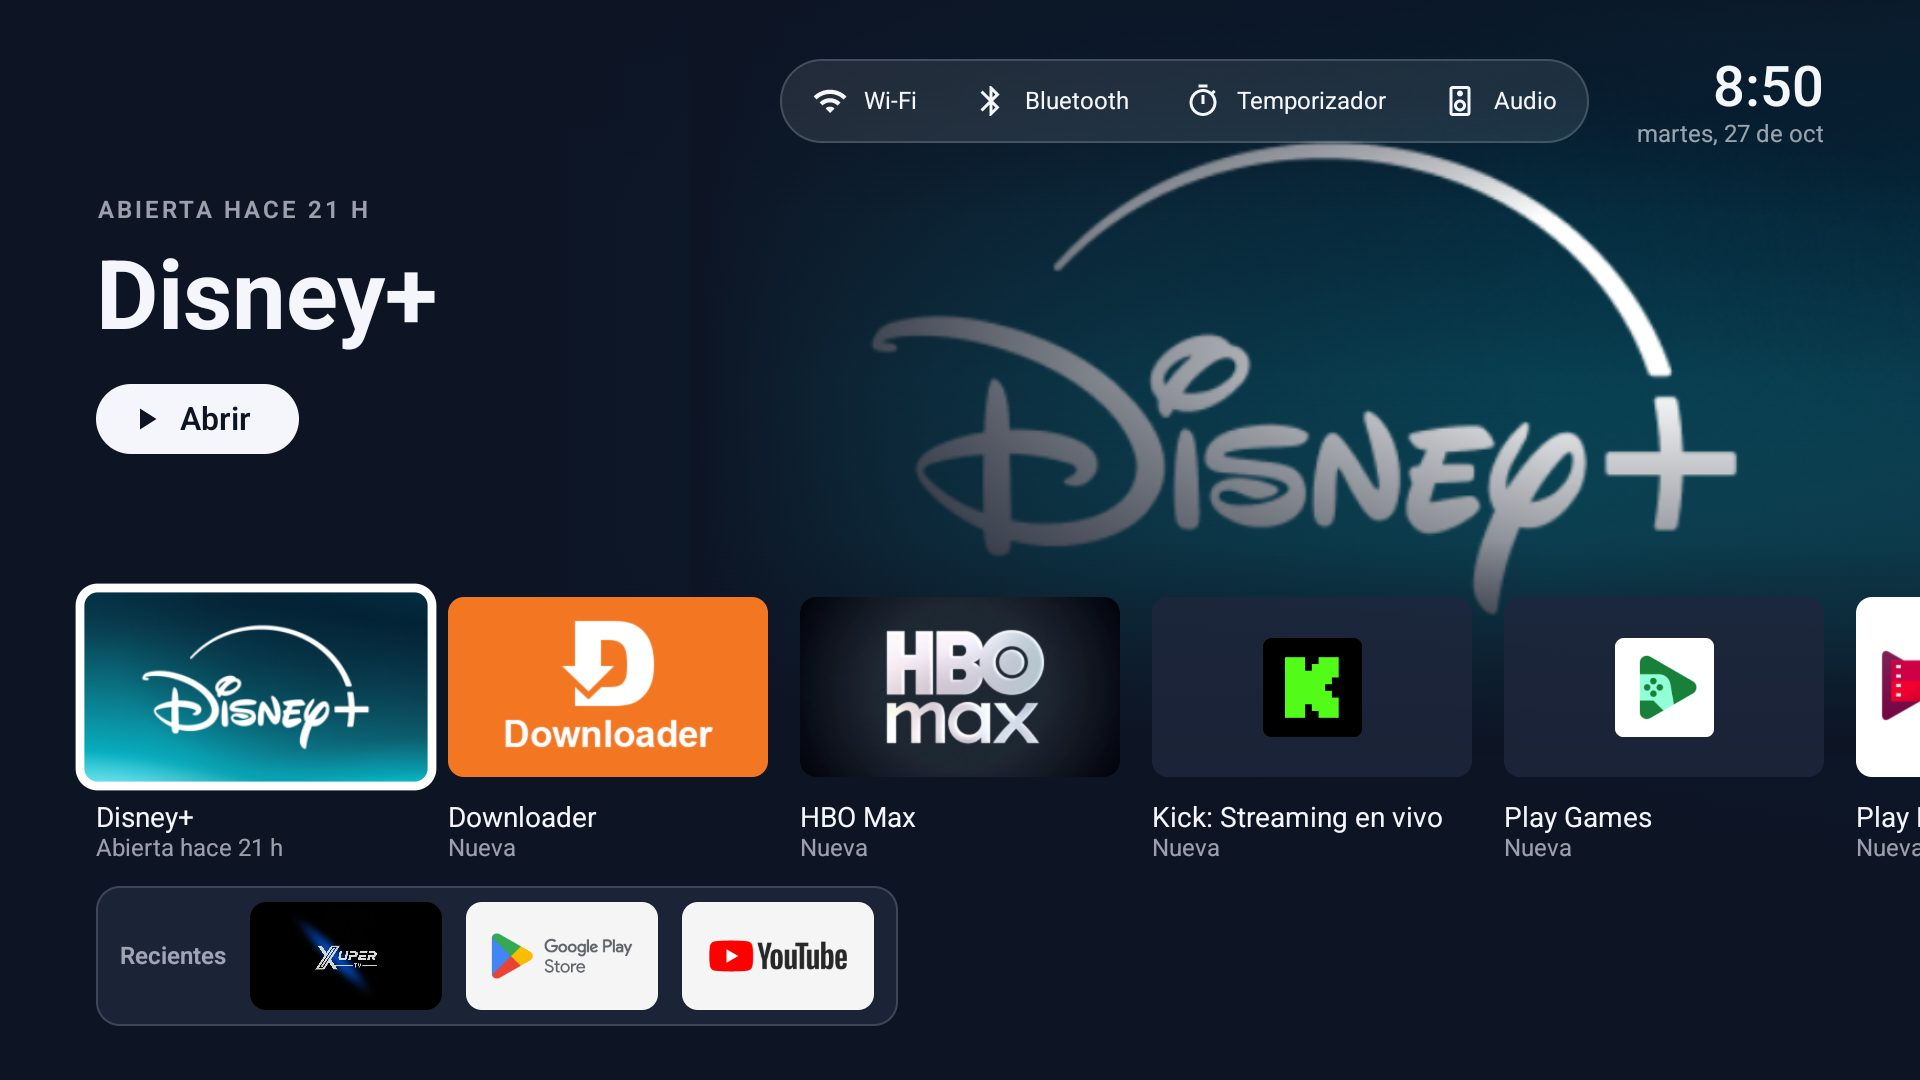
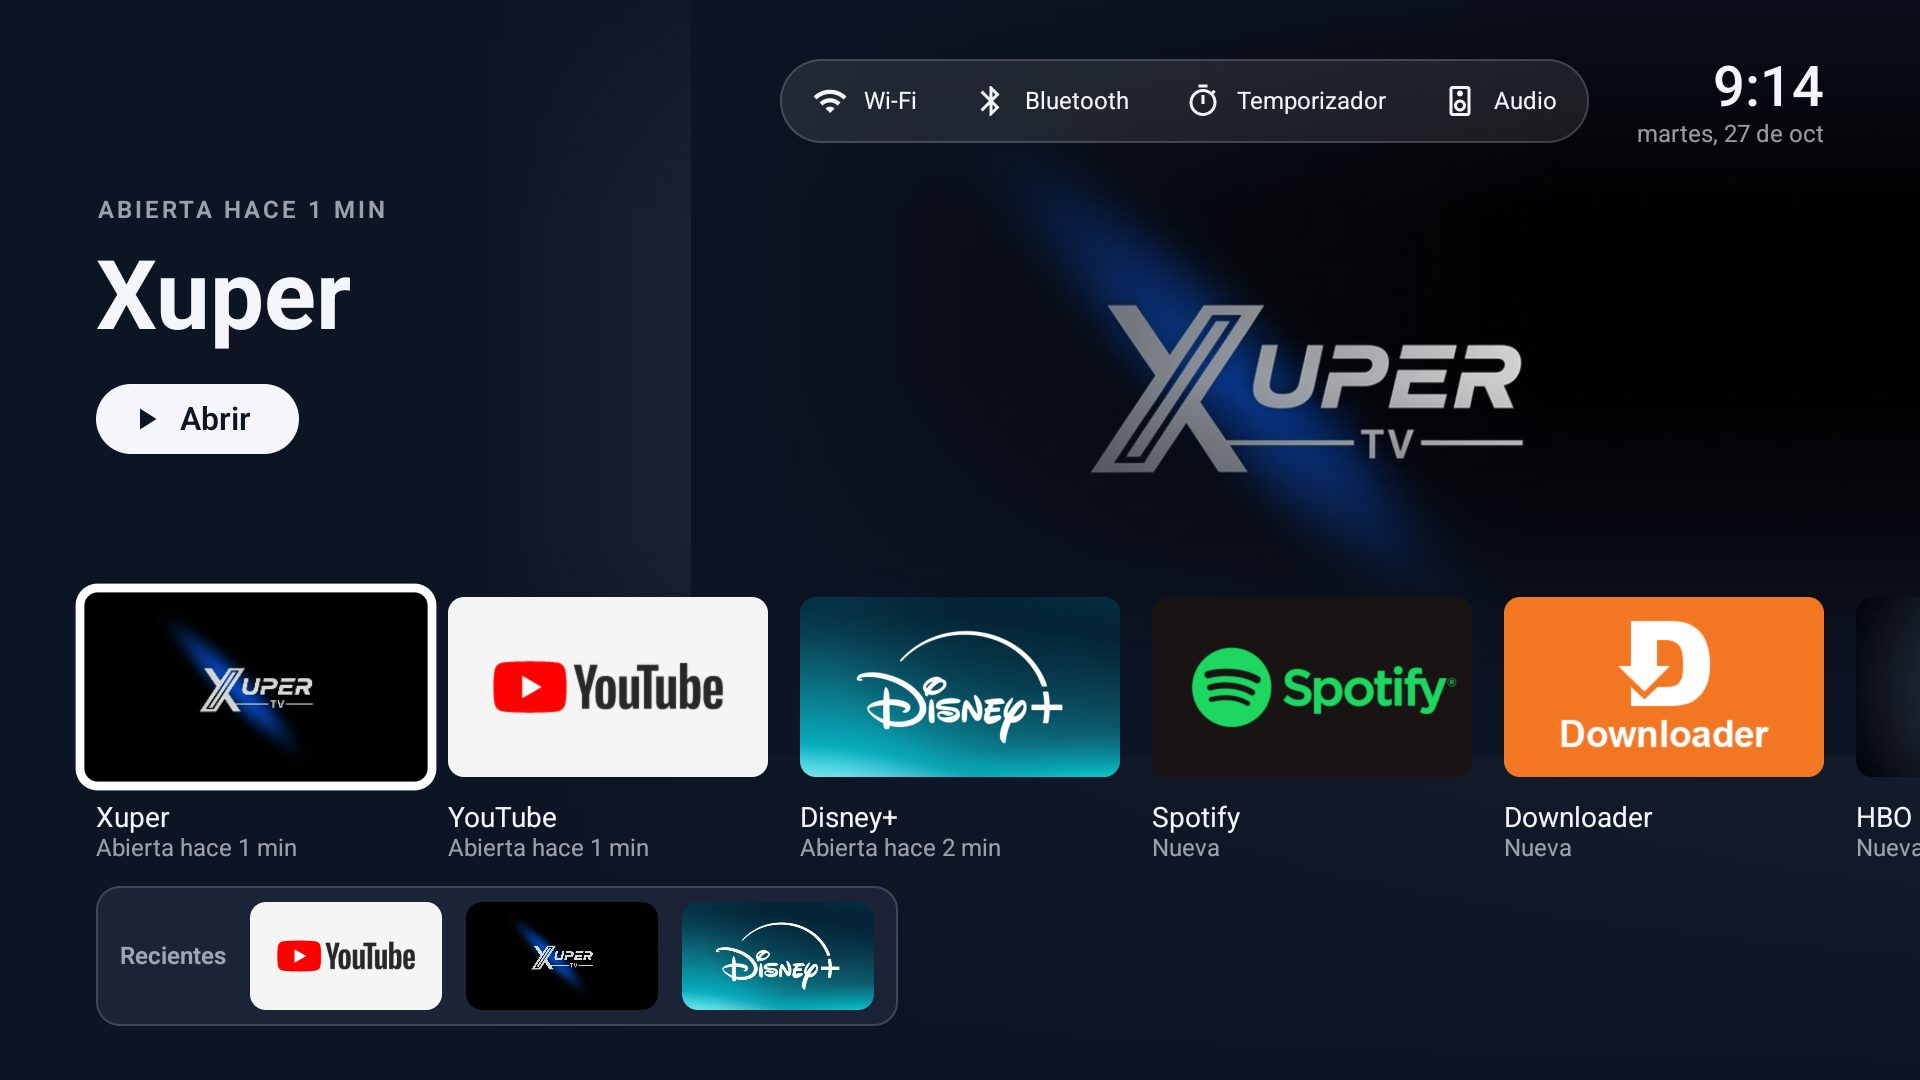
docs: README con capturas nuevas de la v1.1.0

diff --git a/README.md b/README.md
@@ -22,7 +22,7 @@ Interfaz doméstica para el onn. 4K Streaming Box. Reemplaza las recomendaciones
 
 </div>
 
-La interfaz toma como referencia la distribución limpia de Apple TV: panel lateral translúcido, portada de la aplicación seleccionada y una fila de tarjetas. No utiliza recursos, marca ni tipografías de Apple.
+La interfaz toma como referencia la distribución limpia de Apple TV: panel lateral translúcido, portada grande de la aplicación seleccionada, tus apps en el orden que elijas y una ventana con las 3 recientes. No utiliza recursos, marca ni tipografías de Apple.
 
 ## Instalar en tu TV (sin PC)
 
@@ -55,7 +55,11 @@ La portada muestra en grande la app con foco. Si la app expone lo que reprodujis
 
 La navegación se realiza por completo con D-pad, OK, Atrás y Home. El foco se indica mediante escala y un anillo visible.
 
-![Portada de Disney Plus con tarjeta enfocada](docs/media/home-disney-plus.jpg)
+### Ordenar tus apps
+
+Mantén OK sobre una app y elige **Mover**. Usa ← → para cambiarla de lugar y OK para terminar. El orden se guarda y no cambia aunque uses otras apps.
+
+![Mover una app en la fila](docs/media/mover-app.jpg)
 
 ### Reloj y accesos rápidos
 
@@ -74,8 +78,6 @@ El temporizador pone la TV en reposo después de 15, 30, 60, 90 o 120 minutos y 
 - Portada premium con la app enfocada y, cuando la app lo permite, **Continuar** con lo último que reprodujiste.
 - Panel lateral con Perfil, Buscar, Inicio, Notificaciones, Google Play, Ajustes y aplicaciones fijadas.
 - Mantener OK sobre una app para moverla, fijarla en Mis apps u ocultarla.
-
-![Mover una app en la fila](docs/media/mover-app.jpg)
 - Accesos a las funciones nativas de Google TV: perfiles, notificaciones, Play Store y ajustes.
 - El botón Home se intercepta mediante un servicio de accesibilidad sin desactivar Google TV.
 - Respeta la opción del sistema para reducir animaciones.
@@ -86,7 +88,8 @@ El temporizador pone la TV en reposo después de 15, 30, 60, 90 o 120 minutos y 
 - Kotlin y Jetpack Compose for TV
 - Android SDK 34, mínimo Android 12 (API 31)
 - DataStore para preferencias locales
-- UsageStats para ordenar aplicaciones recientes
+- UsageStats para la ventana de Recientes
+- MediaSession (vía acceso a notificaciones) para la portada **Continuar**, sin descargar nada de Internet
 - Sin permisos de Internet, cuentas propias ni recolección de datos
 
 ## Uso
@@ -111,6 +114,7 @@ El proyecto se compila con Gradle. En Windows, la ruta de este repositorio conti
 | Prueba de concepto | [docs/06-poc-informe.md](docs/06-poc-informe.md) |
 | Revisión y QA | [docs/07-revision-construccion.md](docs/07-revision-construccion.md) |
 | Seguridad | [docs/08-seguridad.md](docs/08-seguridad.md) |
+| Cambios por versión | [CHANGELOG.md](CHANGELOG.md) |
 
 ## Estado
 

diff --git a/CHANGELOG.md b/CHANGELOG.md
@@ -11,6 +11,7 @@ Formato basado en Keep a Changelog; versiones SemVer.
 - La portada ya no rota entre las recientes.
 ### Corregido
 - Atrás con el panel lateral abierto lo cierra y lleva a las apps.
+- Mantener OK ya no cierra el menú ni activa Mover antes de elegir.
 
 ## [1.0.0] — 2026-10-27
 ### Añadido
